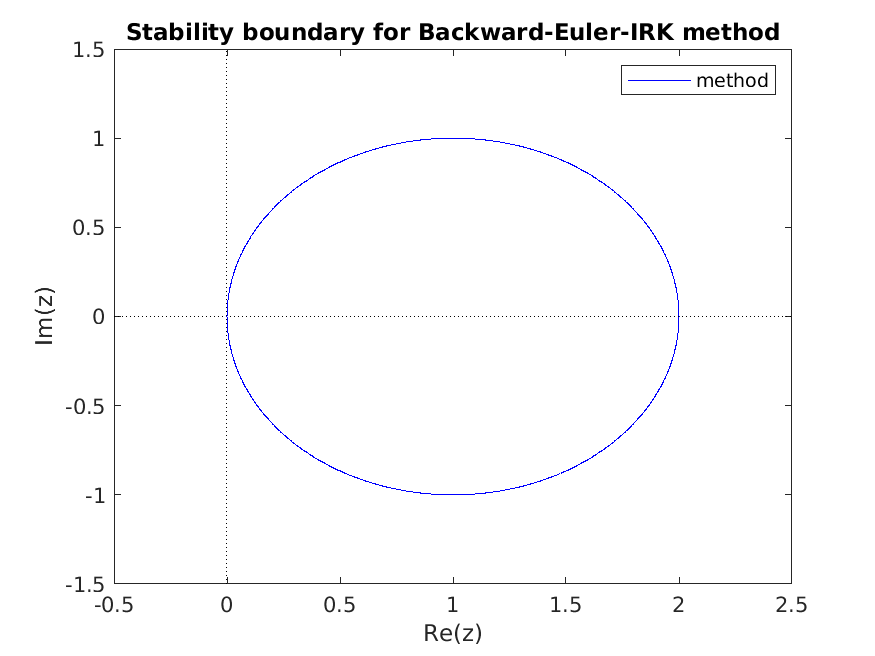
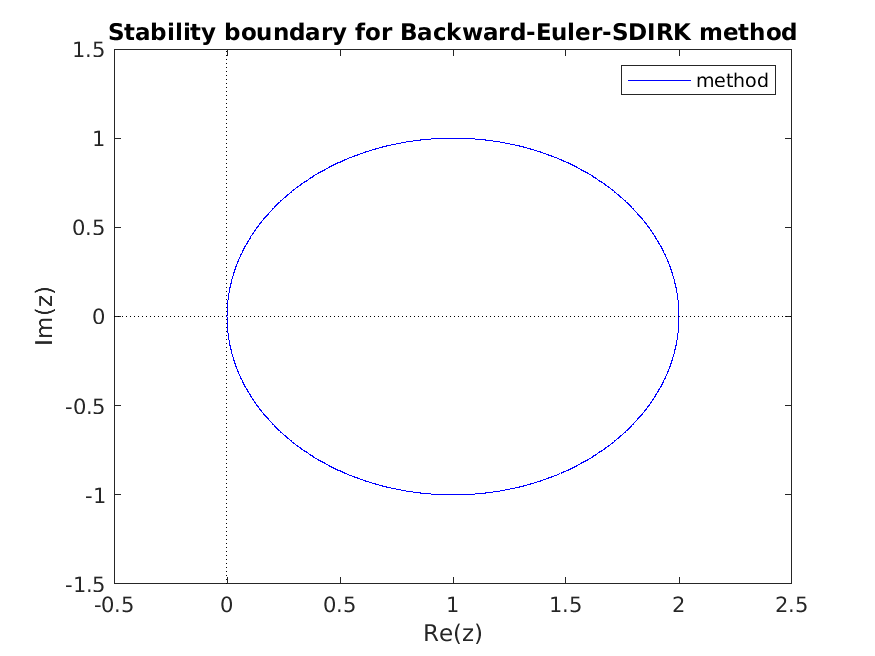
Add midpoint and trapezoidal docs

Changed region(s): [[0.1234, 0.0305, 0.9257, 0.061]]

diff --git a/doc/arkode/guide/source/Butcher.rst b/doc/arkode/guide/source/Butcher.rst
@@ -1222,7 +1222,7 @@ specified via a unique ID and name:
 with values specified for each method below (e.g., ``ARKODE_SDIRK_2_1_2``).
 
 
-.. _Butcher.SDIRK-2-1:
+.. _Butcher.Backward-Euler-1-1:
 
 Backward-Euler-1-1
 ^^^^^^^^^^^^^^^^^^
@@ -1322,6 +1322,69 @@ implicit portion of the ARK2 method from :cite:p:`giraldo2013implicit`).
 
    Linear stability region for the ARK2-DIRK method. The method's
    region is outlined in blue; the embedding's region is in red.
+
+
+.. _Butcher.Implicit-Midpoint-1-2:
+
+Implicit-Midpoint-1-2
+^^^^^^^^^^^^^^^^^^^^^
+
+.. index:: Implicit-Midpoint-1-2 method
+
+Accessible via the constant ``ARKODE_IMPLICIT_MIDPOINT_1_2`` to
+:c:func:`ARKStepSetTableNum` or
+:c:func:`ARKodeButcherTable_LoadDIRK`.
+Accessible via the string ``"ARKODE_IMPLICIT_MIDPOINT_1_2"`` to
+:c:func:`ARKStepSetTableName` or
+:c:func:`ARKodeButcherTable_LoadDIRKByName`.
+The method is A- and B-stable.
+
+.. math::
+
+   \renewcommand{\arraystretch}{1.5}
+   \begin{array}{r|c}
+     \frac{1}{2} & \frac{1}{2} \\
+     \hline
+     2 & 1
+   \end{array}
+
+.. figure:: /figs/arkode/implicit_midpoint_dirk_stab_region.png
+   :scale: 50 %
+   :align: center
+
+   Linear stability region for the implicit midpoint method.
+
+
+.. _Butcher.Implicit-Midpoint-1-2:
+
+Implicit-Trapezoidal-2-2
+^^^^^^^^^^^^^^^^^^^^^^^^
+
+.. index:: Implicit-Trapezoidal-2-2 method
+
+Accessible via the constant ``ARKODE_IMPLICIT_TRAPEZOIDAL_2_2`` to
+:c:func:`ARKStepSetTableNum` or
+:c:func:`ARKodeButcherTable_LoadDIRK`.
+Accessible via the string ``"ARKODE_IMPLICIT_TRAPEZOIDAL_2_2"`` to
+:c:func:`ARKStepSetTableName` or
+:c:func:`ARKodeButcherTable_LoadDIRKByName`.
+The method is A-stable.
+
+.. math::
+
+   \renewcommand{\arraystretch}{1.5}
+   \begin{array}{r|cc}
+     0 & 0 & 0 \\
+     1 & \frac{1}{2} & \frac{1}{2} \\
+     \hline
+     2 & \frac{1}{2} & \frac{1}{2}
+   \end{array}
+
+.. figure:: /figs/arkode/implicit_trapezoidal_dirk_stab_region.png
+   :scale: 50 %
+   :align: center
+
+   Linear stability region for the implicit trapezoidal method.
 
 
 .. _Butcher.Billington:
